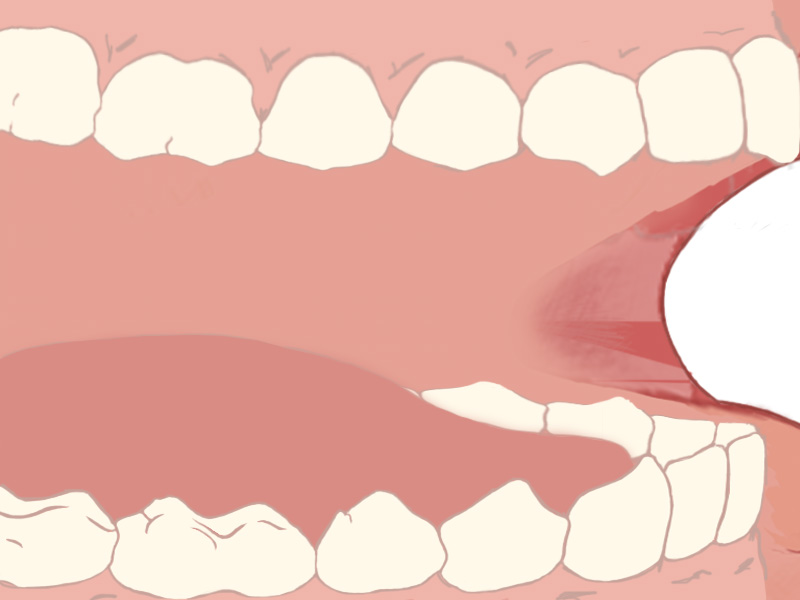
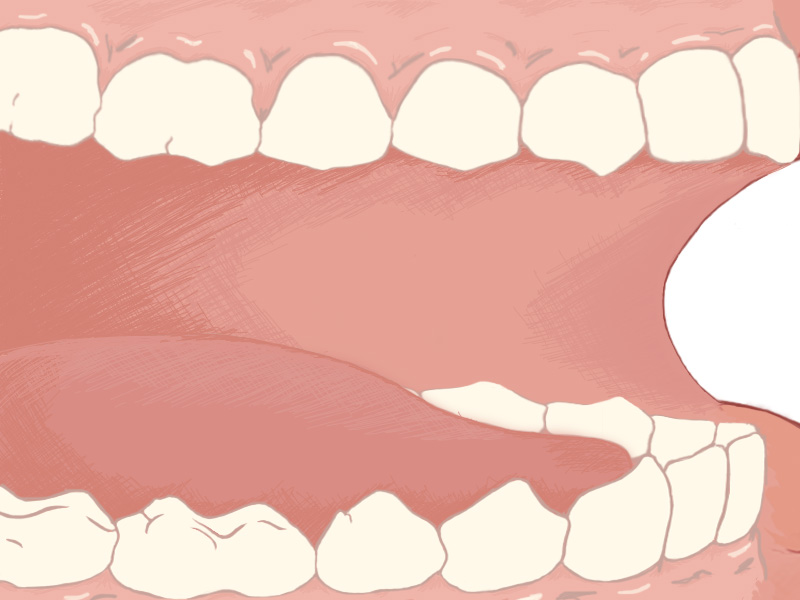
A bit of food logic and deep effect

diff --git a/src/jam/ld23/entities/Food.java b/src/jam/ld23/entities/Food.java
@@ -1,30 +1,68 @@
 package jam.ld23.entities;
 
+import jam.ld23.events.EventManager;
 import jam.ld23.game.C;
+import jam.ld23.sounds.SoundManager;
+import java.util.Random;
+import org.newdawn.slick.GameContainer;
 
 public class Food extends Sprite {
     
     private Size size;
+    private float speed = (float) 0.1;
+    private static int idBig = 0;
+    private static int idNormal = 0;
+    private static int idSmall = 0;
+    private static Random rand;
+    private float rotatingSpeed;
+
+    //Initialize block for the two constructors
+    {
+        rand = new Random();
+        rotatingSpeed = (rand.nextInt(20)-10) * .01F;
+        this.x = C.SCREEN_WIDTH;
+        this.y = rand.nextFloat()*C.SCREEN_HEIGHT;
+        group = C.Groups.FOOD.name;
+    }
     
     public Food() {
         super(C.Textures.FOOD_NORMAL.name);
         size = Size.NORMAL;
+        name = C.Entities.FOOD_SMALL.name + idNormal++;
     }
     
     public Food(Size size) {
-        //TODO: fuck, esto no lo podemos hacer XD
-        /*switch(size) {
+        String texture = null;
+        switch(size) {
             case SMALL:
-                super(C.Textures.FOOD_SMALL.name);
+                texture = C.Textures.FOOD_SMALL.name;
+                name = C.Entities.FOOD_SMALL.name + idSmall++;
                 break;
-            case MEDIUM:
-                super(C.Textures.FOOD_NORMAL.name);
+            case NORMAL:
+                texture = C.Textures.FOOD_NORMAL.name;
+                name = C.Entities.FOOD_NORMAL.name + idNormal++;
                 break;
             case BIG:
-                super(C.Textures.FOOD_BIG.name);
+                texture = C.Textures.FOOD_BIG.name;
+                name = C.Entities.FOOD_BIG.name + idBig++;
                 break;
-        }*/
+        }
         this.size = size;
+        this.setTexture(texture);
     }
+    
+    @Override
+    public void update(GameContainer gc, int delta) {
+        super.update(gc, delta);
+        EntityManager em = EntityManager.getInstance();
+        EventManager evm = EventManager.getInstance();
+        SoundManager sm = SoundManager.getInstance();
+        
+        //Food movement
+        x -= speed * delta;
+        image.rotate(rotatingSpeed);
+    }
+    
+    
 
 }

diff --git a/src/jam/ld23/game/Game.java b/src/jam/ld23/game/Game.java
@@ -1,8 +1,6 @@
 package jam.ld23.game;
  
-import jam.ld23.entities.CrossHair;
-import jam.ld23.entities.EntityManager;
-import jam.ld23.entities.Player;
+import jam.ld23.entities.*;
 import jam.ld23.events.EventManager;
 import jam.ld23.events.InputEvent;
 import jam.ld23.physics.PhysicsManager;
@@ -20,6 +18,7 @@ public class Game extends BasicGame {
     private SaveManager svm;
     private GameOptions go;
     private Image mouth;
+    private Image teeth;
     
     public Game()
     {
@@ -59,6 +58,7 @@ public class Game extends BasicGame {
         tm.addTexture(C.Textures.FOOD_NORMAL.name, C.Textures.FOOD_NORMAL.path);
         tm.addTexture(C.Textures.FOOD_BIG.name, C.Textures.FOOD_BIG.path);
         tm.addTexture(C.Textures.MOUTHWASH.name, C.Textures.MOUTHWASH.path);
+        tm.addTexture(C.Textures.TEETH.name, C.Textures.TEETH.path);
         
         //Add music and sounds
         sm.addMusic(C.Sounds.MUSIC.name, C.Sounds.MUSIC.path);
@@ -69,9 +69,18 @@ public class Game extends BasicGame {
         //Add background
         mouth = tm.getTexture(C.Textures.MOUTH.name);
         
+        //Add deep effect
+        teeth = tm.getTexture(C.Textures.TEETH.name);
+        
         //Add entities
         em.addEntity(C.Entities.PLAYER.name, new Player());
         em.addEntity(C.Entities.CROSSHAIR.name, new CrossHair());
+        Food f1,f2,f3,f4;
+        em.addEntity((f1 = new Food(Size.BIG)).getName(), f1);
+        em.addEntity((f2 = new Food(Size.SMALL)).getName(), f2);
+        em.addEntity((f3 = new Food(Size.NORMAL)).getName(), f3);
+        em.addEntity((f4 = new Food(Size.SMALL)).getName(), f4);
+        
     }
  
     @Override
@@ -98,12 +107,13 @@ public class Game extends BasicGame {
     {
         mouth.draw(0, 0);
         em.render(gc, g);
+        teeth.draw(0, 0);
     }
  
     public static void main(String[] args) throws SlickException 
     {
          AppGameContainer app = new AppGameContainer(new Game());
-         app.setDisplayMode(800, 600, false);
+         app.setDisplayMode(C.SCREEN_WIDTH, C.SCREEN_HEIGHT, false);
          app.setMouseGrabbed(true);
          app.start();
     }

diff --git a/src/jam/ld23/game/C.java b/src/jam/ld23/game/C.java
@@ -3,6 +3,10 @@ package jam.ld23.game;
 import jam.ld23.entities.Size;
 
 public class C {
+    
+    public static final int SCREEN_HEIGHT = 600;
+    public static final int SCREEN_WIDTH = 800;
+    
     public static enum Events {
         CLOSE_WINDOW("close_window"),
         MOVE_LEFT("move_left"),
@@ -30,7 +34,8 @@ public class C {
         MOUTHWASH("mouthwash", "resources/mouthwash.png"),
         CROSSHAIR("crosshair", "resources/crosshair.png"),
         BULLET("bullet", "resources/bullet.png"),
-        MOUTH("mouth", "resources/mouth.jpg");
+        MOUTH("mouth", "resources/mouth.jpg"),
+        TEETH("teeth", "resources/teeth.png");
 
         public String name;
         public String path;
@@ -49,7 +54,8 @@ public class C {
         FOOD_BIG("food" + Size.BIG),
         MOUTHWASH("mouthwash"),              
         CROSSHAIR("crosshair"),
-        BULLET("bullet");
+        BULLET("bullet"),
+        TEETH("teeth");
         
         public String name;
 
@@ -59,7 +65,8 @@ public class C {
     }
     
     public static enum Groups {
-        BULLETS("bullets");
+        BULLETS("bullets"),
+        FOOD("food");
         
         public String name;
 
@@ -80,4 +87,5 @@ public class C {
             this.path = path;
         }
     }
+
 }

diff --git a/src/jam/ld23/entities/Sprite.java b/src/jam/ld23/entities/Sprite.java
@@ -13,7 +13,11 @@ public class Sprite extends Entity implements Serializable {
     }
     
     public Sprite(String name) {
-        image = TextureManager.getInstance().getTexture(name);
+        this.setTexture(name);
+    }
+    
+    public void setTexture(String name) {
+        this.image = TextureManager.getInstance().getTexture(name);
         
         // Grab image size
         w = image.getWidth();
@@ -28,7 +32,9 @@ public class Sprite extends Entity implements Serializable {
     @Override
     public void render(GameContainer gc, Graphics g) {
         super.render(gc, g);
-        image.draw(x, y);
+        if(image != null) {
+            image.draw(x, y);
+        }
     }
     
 }

diff --git a/src/jam/ld23/entities/Entity.java b/src/jam/ld23/entities/Entity.java
@@ -23,6 +23,10 @@ public abstract class Entity implements Serializable {
     //Group
     protected String group;
     
+    public Entity() {
+        r = new Rectangle(x, y, w, h);
+    }
+    
     //Getter, return the rectangle for testing collisions
     public Rectangle getR() {
         return r;
@@ -79,4 +83,13 @@ public abstract class Entity implements Serializable {
     public void setGroup(String group) {
         this.group = group;
     }
+
+    public String getName() {
+        return name;
+    }
+
+    public void setName(String name) {
+        this.name = name;
+    }
+    
 }
